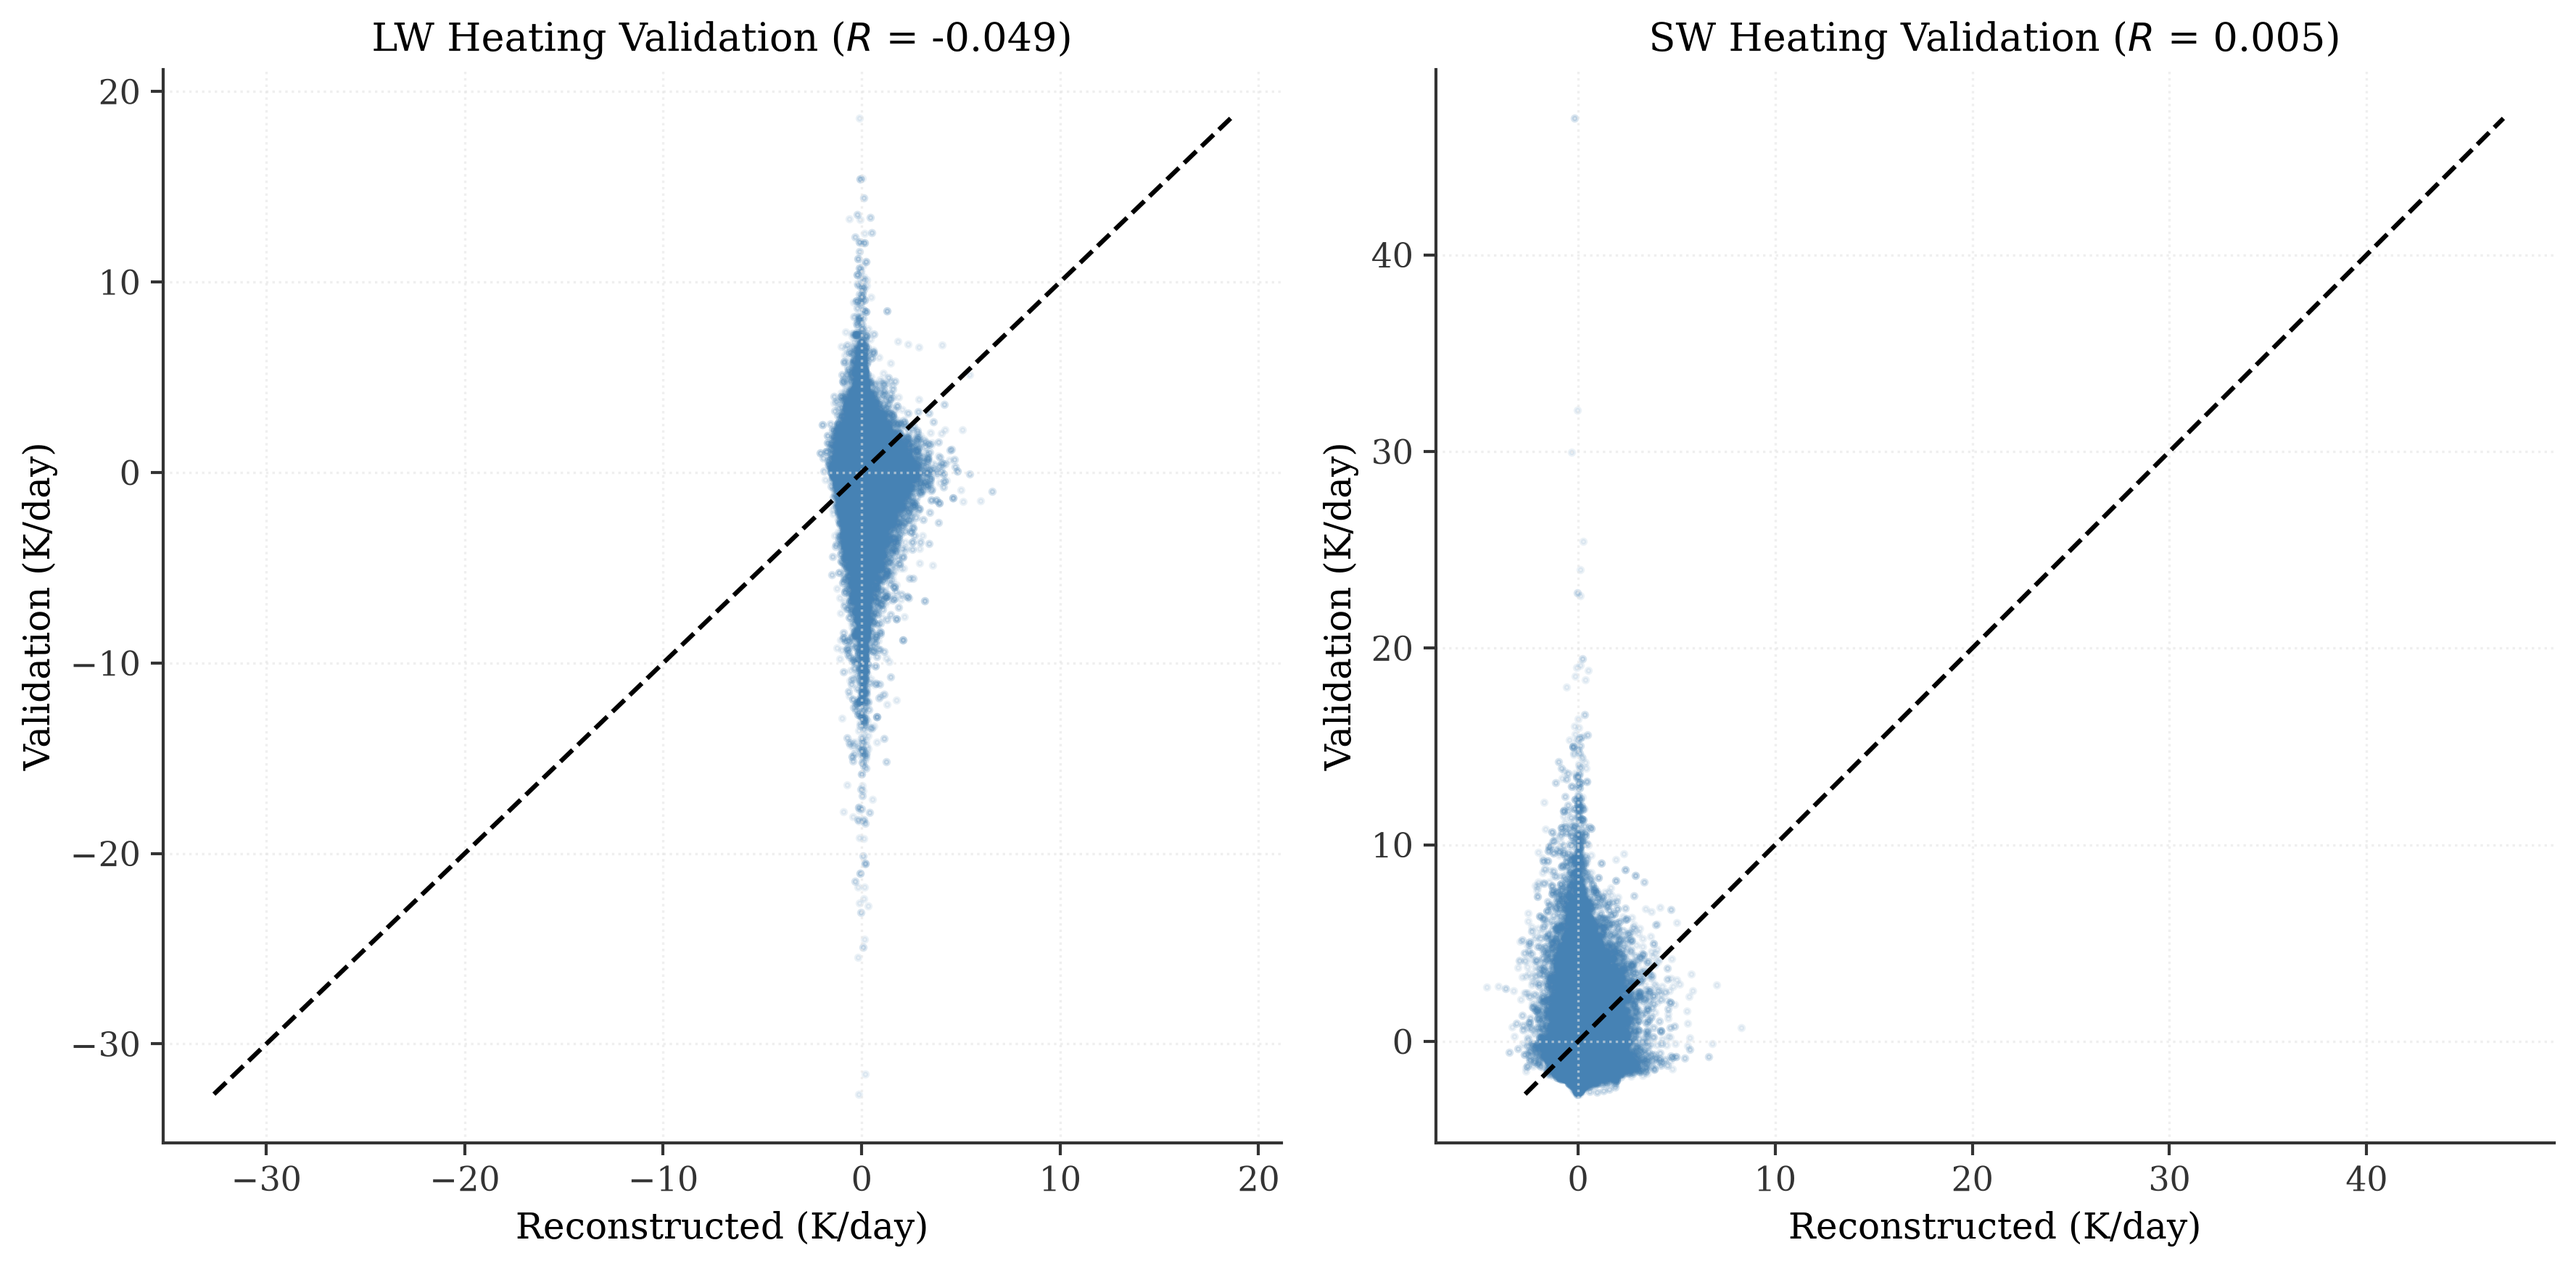
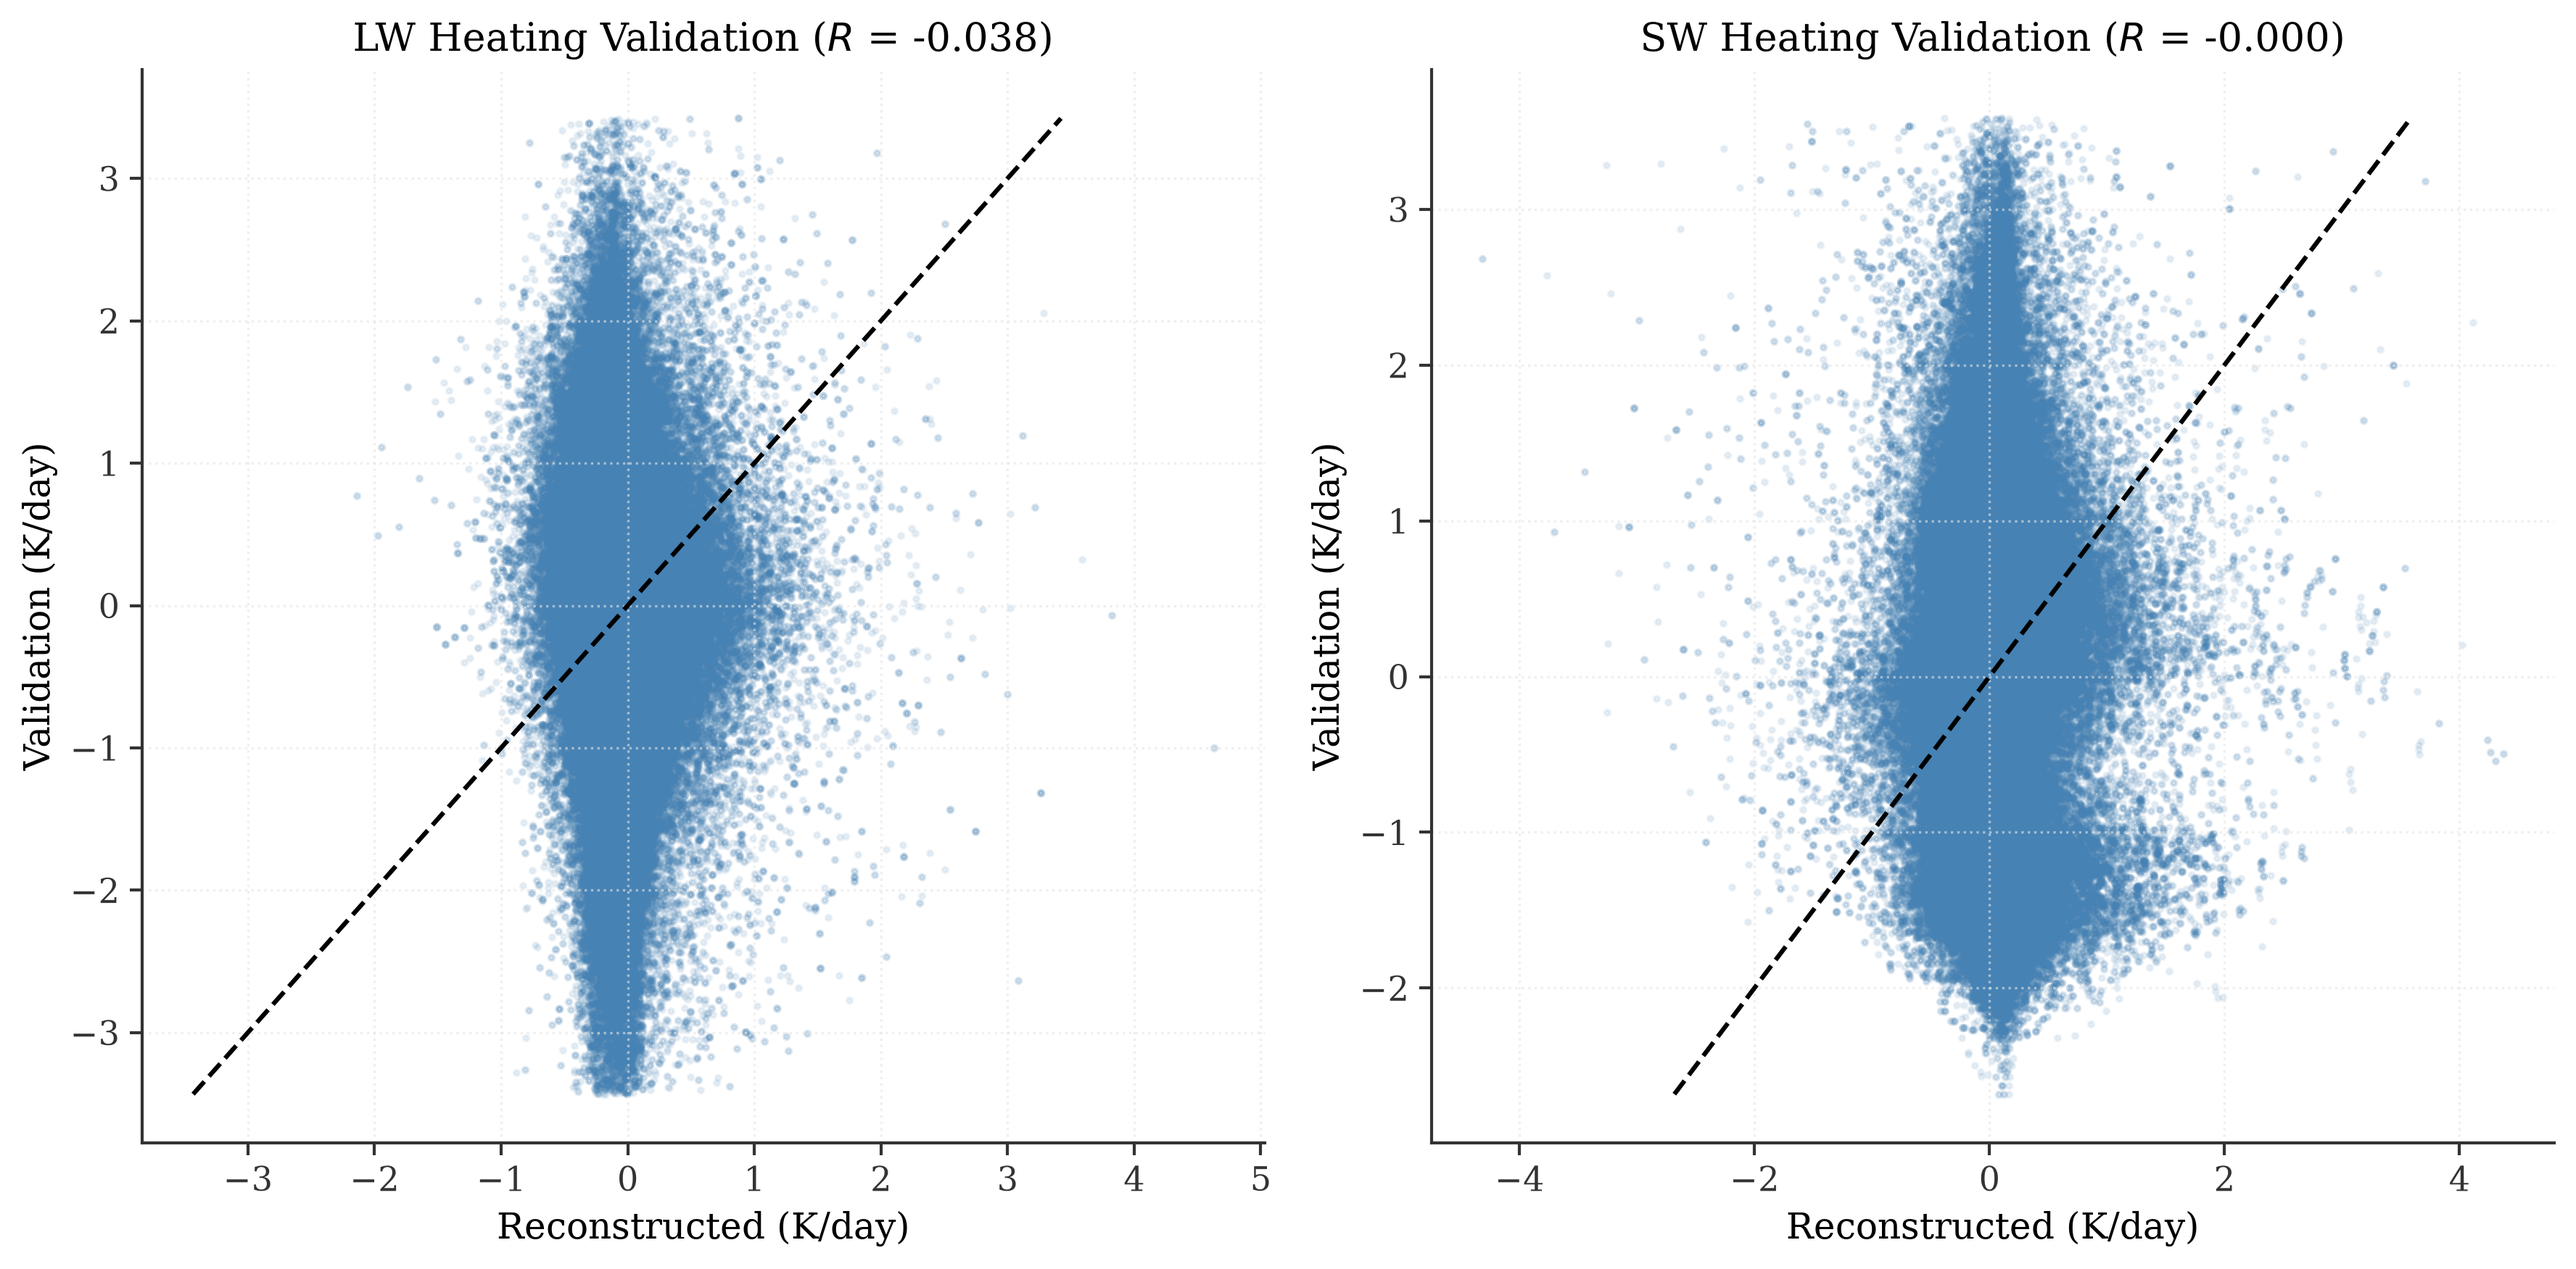
feat: filter heating rate outliers exceeding 3 standard deviations

diff --git a/Code/refactored/QR_w_Relation.py b/Code/refactored/QR_w_Relation.py
@@ -95,9 +95,19 @@ def main(data_type: str) -> None:
             sw_non_nan : np.ndarray = np.all(~np.isnan(sw_concat), axis=1)
             non_nan_idx: np.ndarray = lw_non_nan & sw_non_nan
 
-            w_concat = w_concat[non_nan_idx]
-            lw_concat = lw_concat[non_nan_idx]
-            sw_concat = sw_concat[non_nan_idx]
+            # Calculate standard derivation in LW and SW heating
+            lw_std: float = float(np.nanstd(lw_concat[non_nan_idx, :]))
+            sw_std: float = float(np.nanstd(sw_concat[non_nan_idx, :]))
+
+            lw_norm_idx: np.ndarray = np.all(np.abs(lw_concat[non_nan_idx, :]) < 3 * lw_std, axis=1)
+            sw_norm_idx: np.ndarray = np.all(np.abs(sw_concat[non_nan_idx, :]) < 3 * sw_std, axis=1) 
+            norm_idx: np.ndarray = lw_norm_idx & sw_norm_idx
+            
+            w_concat = w_concat[non_nan_idx, :][norm_idx, :]
+            lw_concat = lw_concat[non_nan_idx, :][norm_idx, :]
+            sw_concat = sw_concat[non_nan_idx, :][norm_idx, :]
+
+            print(w_concat.shape)
 
         case "composite":
             w_concat: np.ndarray = np.concatenate([w[k].T for k in keys])
